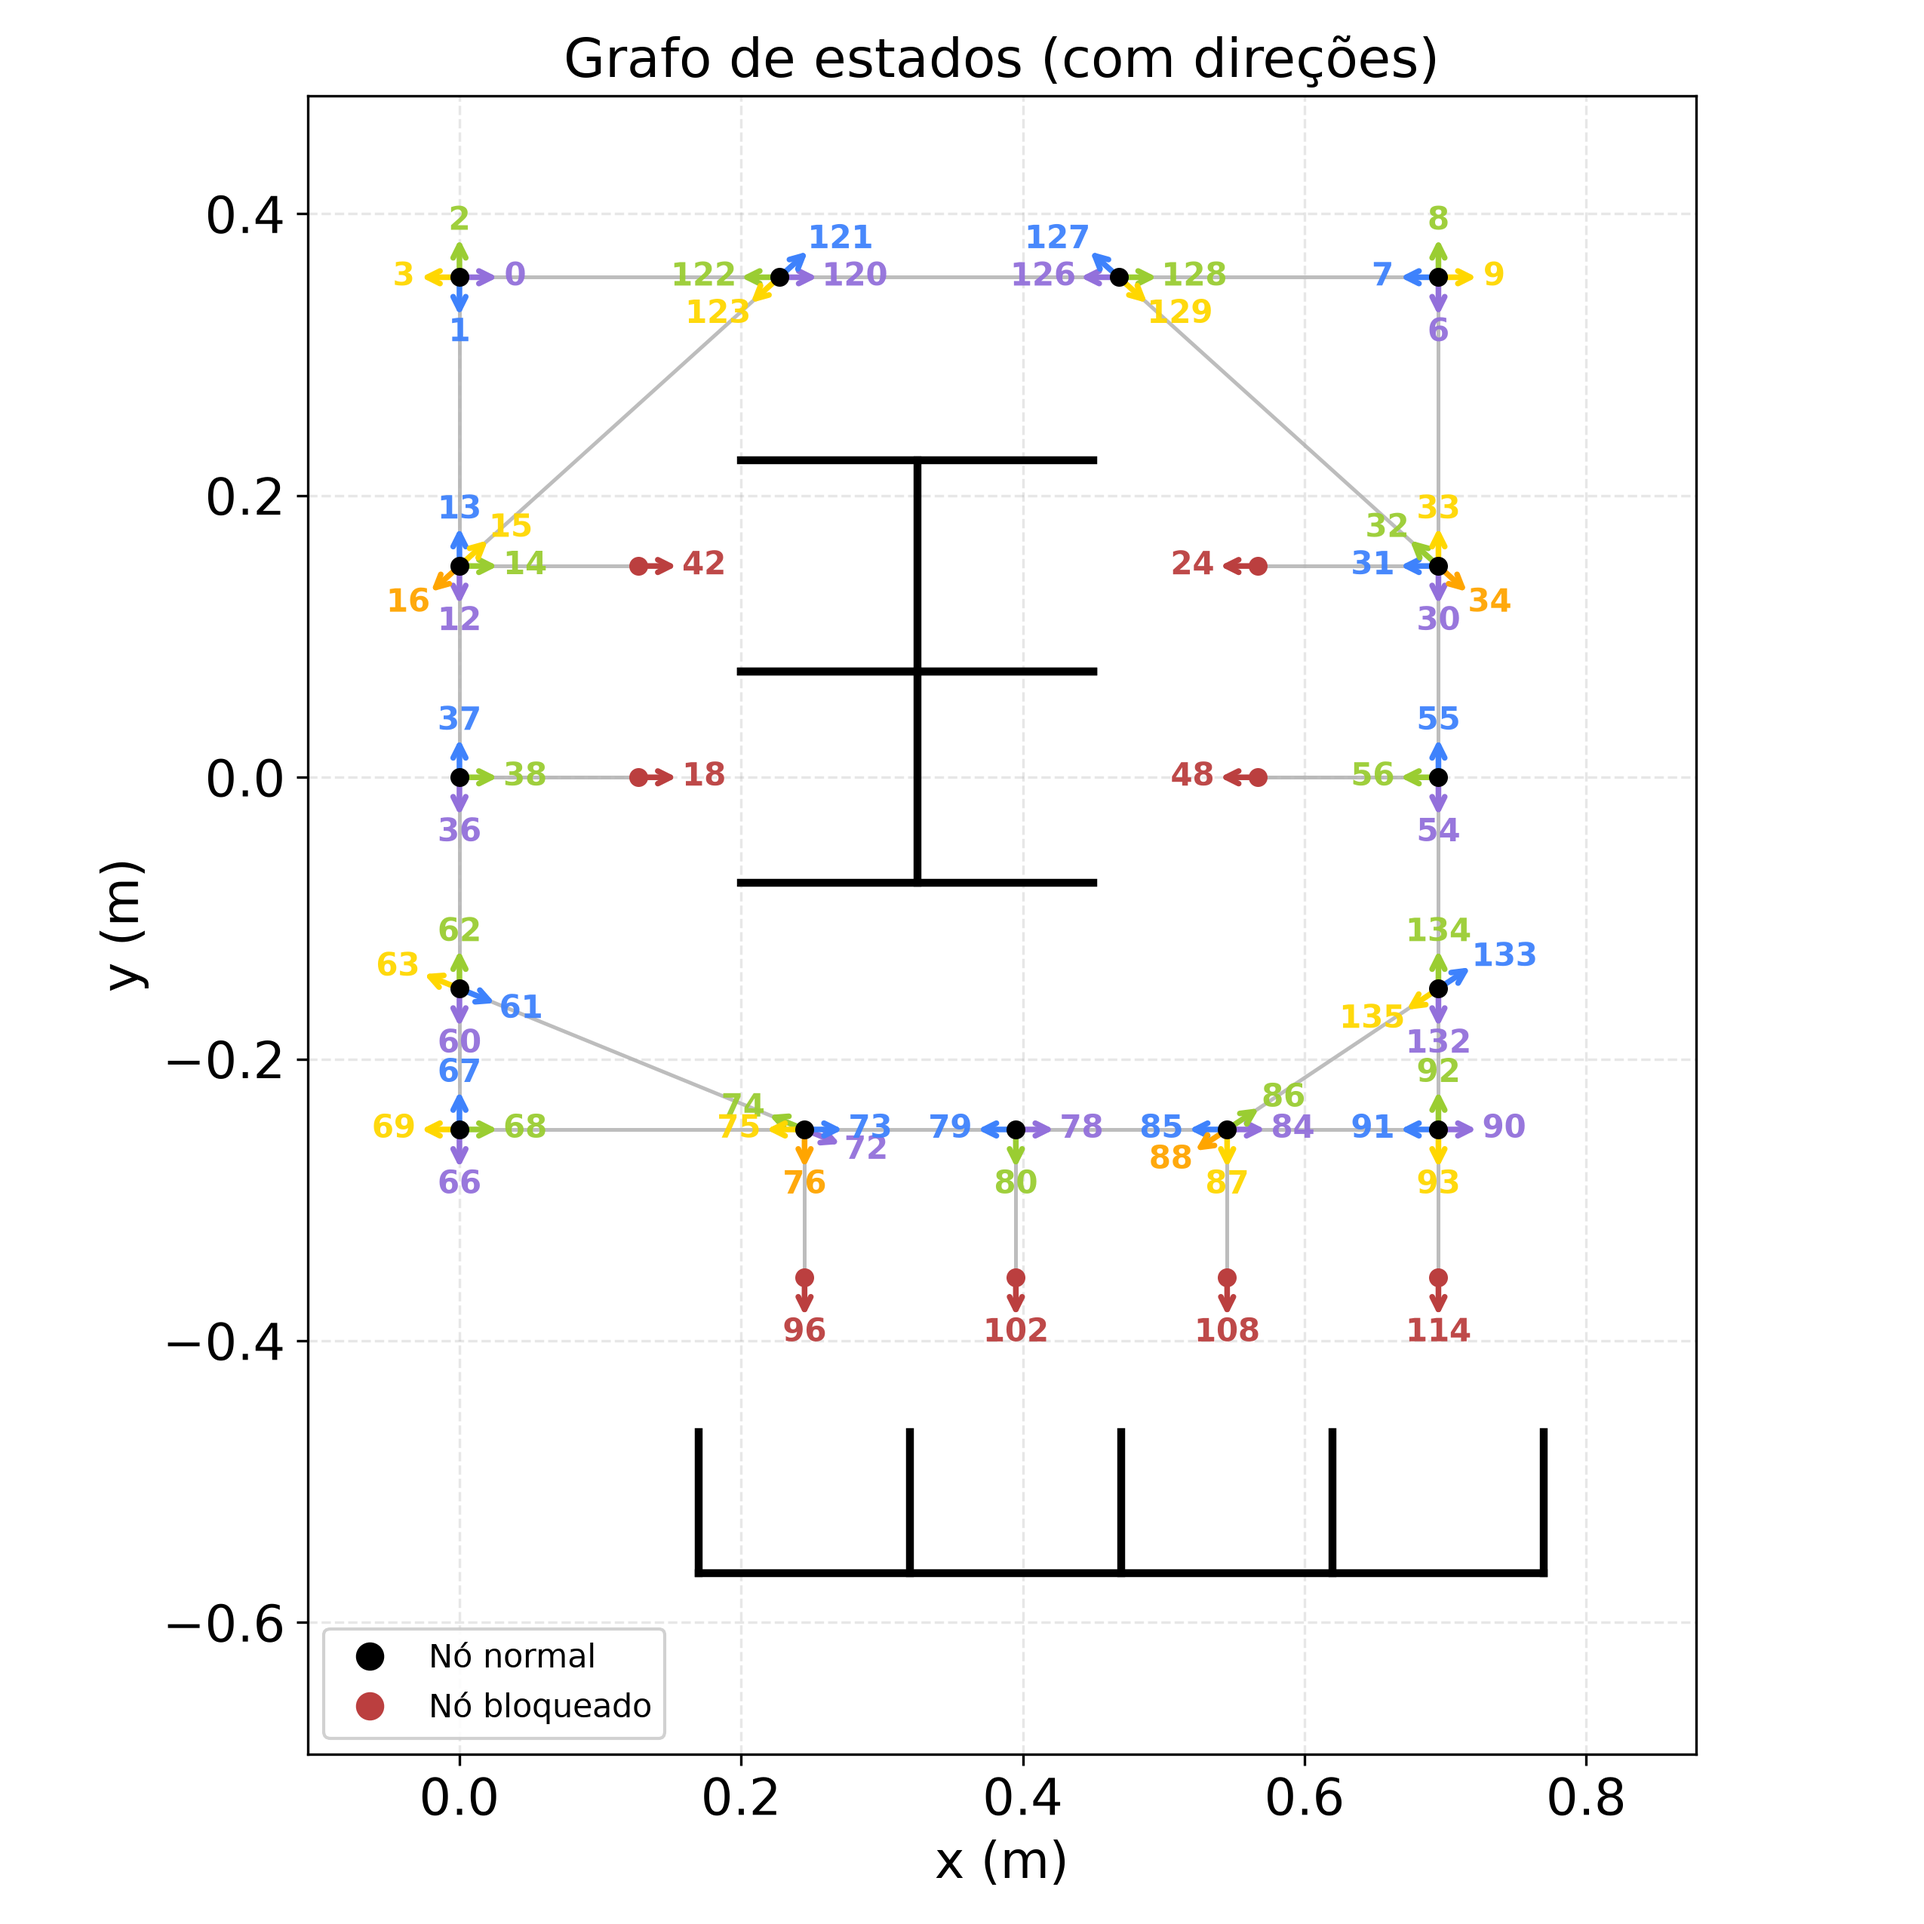
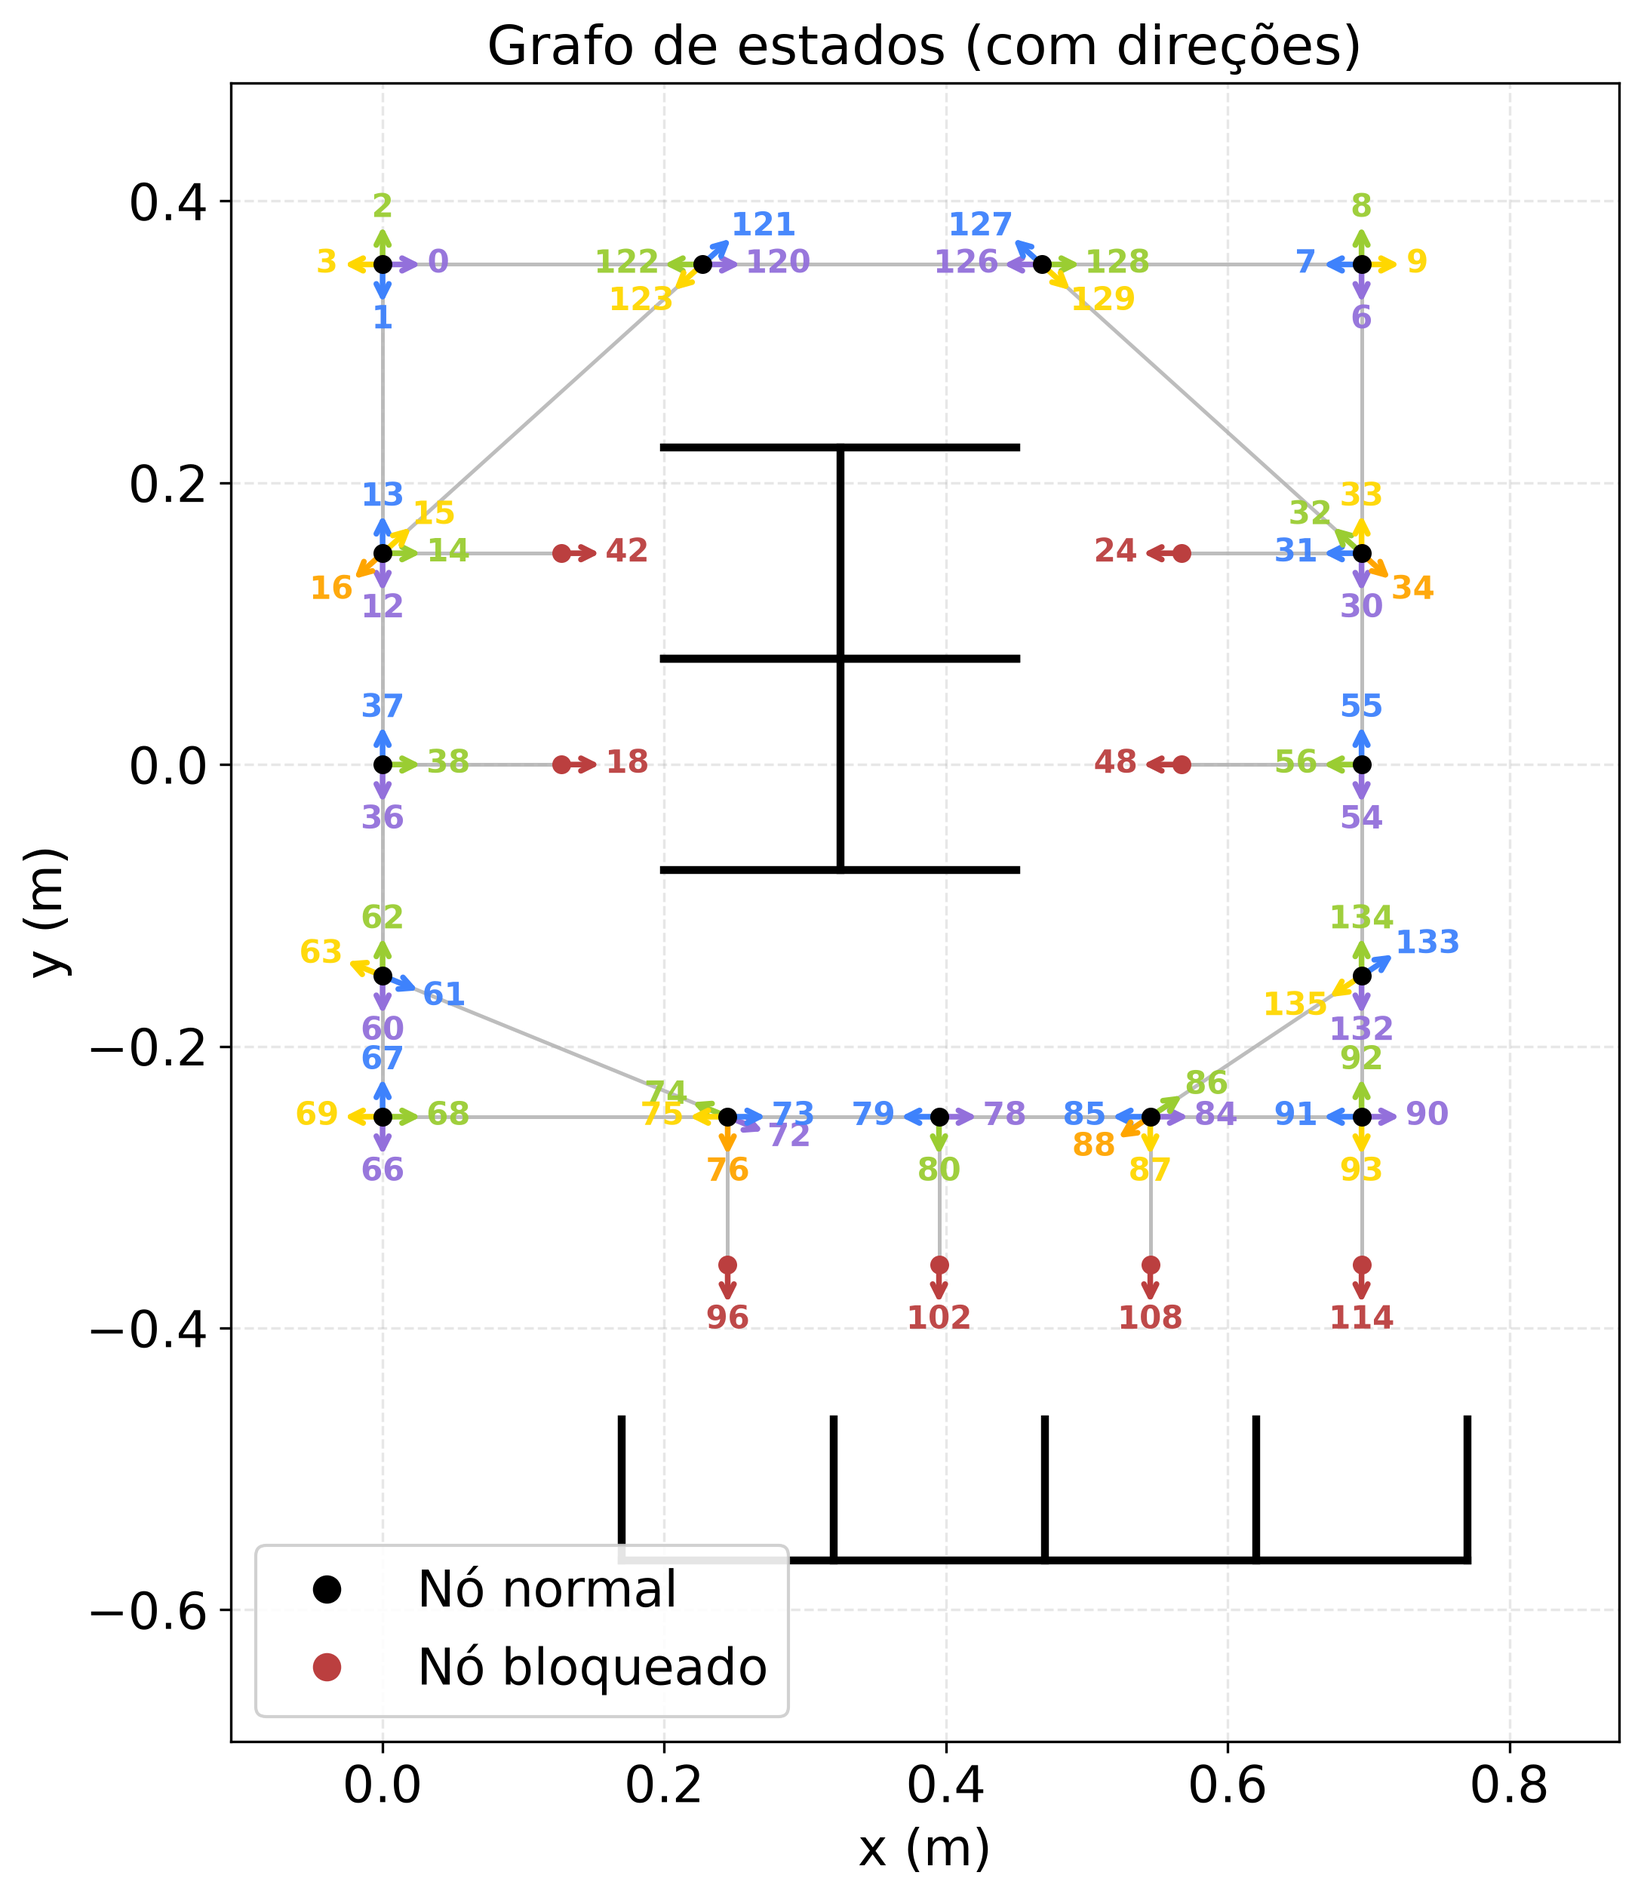
lil update

diff --git a/Planeamento do grafo/make_matched_graphs.py b/Planeamento do grafo/make_matched_graphs.py
@@ -104,13 +104,13 @@ def plot_topology():
         plt.Line2D([0], [0], marker='o', linestyle='', color=NORMAL_COLOR_TOPO,
                    markersize=10, label='Nó normal'),
         plt.Line2D([0], [0], marker='o', linestyle='', color=BLOCKED_COLOR,
-                   markersize=10, label='Nó bloqueado (grau 1)'),
+                   markersize=10, label='Nó bloqueado'),
     ]
-    ax.legend(handles=handles, loc='upper right', fontsize=FONT_TICK*0.7, framealpha=0.9)
+    ax.legend(handles=handles, loc='lower left', fontsize=FONT_TICK, framealpha=0.9)
 
     fig.tight_layout()
     out_path = Path(__file__).resolve().parent / 'grafo_topologia_matched.png'
-    fig.savefig(out_path, dpi=DPI)
+    fig.savefig(out_path, dpi=DPI, bbox_inches = 'tight')
     plt.close(fig)
     print(f"Guardado em: {out_path}")
 
@@ -175,11 +175,11 @@ def plot_state_graph():
         plt.Line2D([0], [0], marker='o', linestyle='', color=BLOCKED_COLOR,
                    markersize=8, label='Nó bloqueado'),
     ]
-    ax.legend(handles=handles, loc='lower left', fontsize=FONT_TICK*0.65, framealpha=0.9)
+    ax.legend(handles=handles, loc='lower left', fontsize=FONT_TICK, framealpha=0.9)
 
     fig.tight_layout()
     out_path = Path(__file__).resolve().parent / 'grafo_estados_matched.png'
-    fig.savefig(out_path, dpi=DPI)
+    fig.savefig(out_path, dpi=DPI, bbox_inches = 'tight')
     plt.close(fig)
     print(f"Guardado em: {out_path}")
 
